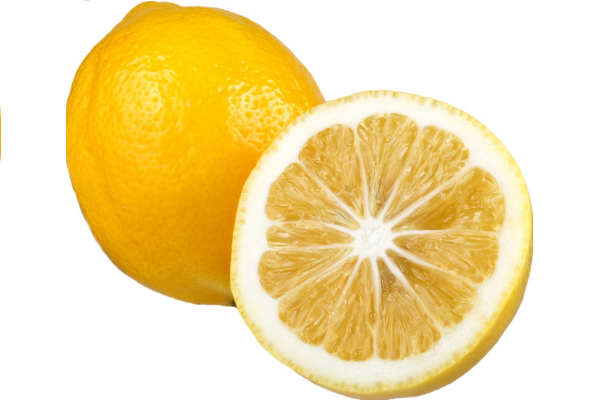
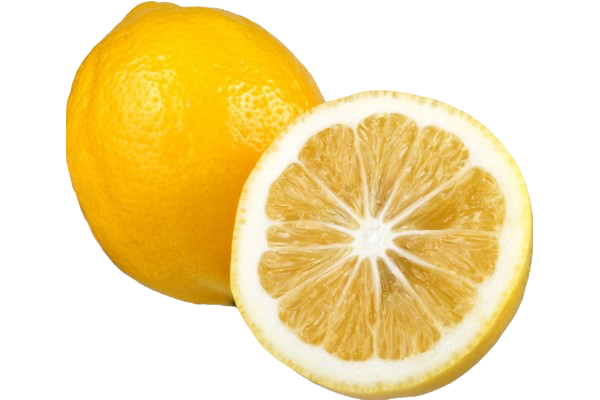
Add files via upload

diff --git a/portfolio/smoothies/index.html b/portfolio/smoothies/index.html
@@ -4,107 +4,149 @@
     <meta charset="UTF-8">
     <meta http-equiv="X-UA-Compatible" content="IE=edge">
     <meta name="viewport" content="width=device-width, initial-scale=1.0">
+    ‹title>Mary Smith | Portfolio Project | Smooth Smoothies</title›
+    ‹meta name="description" content="Dublin's finest smoothie store. Offering tasty alternatives to sugary and unhealthy snacks for busy, on-the-go, on-trend professionals">
+   
+	<!-- Preload large image -->
 
-    <title>Victor Gomes Alencar | Portfolio Project | Smooth Smoothies</title>
-    <meta name="description" content="Dublin's finest smoothie store. Offering tasty alternatives to sugary and unhealthy snacks for busy, on-the-go, on-trend professionals.">
-
-    <!-- Preload large image -->
     <link rel="preload" href="assets/img/smoothies-hero-image.jpg" as="image">
 
-    <!-- Stylesheets -->
+	<!-- Stylesheets -->
     <link rel="stylesheet" href="https://lunevedy.com/assets/2.0/css/lunevedy.min.css" />
     <link rel="stylesheet" href="assets/css/custom.css" />
 
-    <!-- Google Fonts -->
-    <link rel="preconnect" href="https://fonts.googleapis.com">
+	<!-- Google Fonts -->
+     <link rel="preconnect" href="https://fonts.googleapis.com">
     <link rel="preconnect" href="https://fonts.gstatic.com" crossorigin>
     <link href="https://fonts.googleapis.com/css2?family=Neucha&display=swap" rel="stylesheet">
 
+
+    
+
 </head>
+
 
 <body>
 
-    <!-- 'hero block' header starts here -->
-    <header class="theme-dark hero-bg text-center-desktop text-center-mobile desktop-min-height-90vh">
+    <!-- menu and 'hero block' header -->
+    
+<!-- header starts here -->
+<header class="theme-dark hero-bg text-center-desktop text-center-mobile desktop-min-height-90vh">
 
-        <div class="container-text reveal-slide-up-header">
-            <h1 class="text-shadow">Smooth Smoothies</h1>
-            <h2 class="text-shadow">Where flavour meets goodness</h2>
-        </div>
+    <div class="container-text reveal-slide-up-header">
+        <h1 class="text-shadow">Smooth Smoothies</h1>
+        <h2 class="text-shadow">Where flavour meets goodness</h2>
+    </div>
 
-        <div class="container-media">
-            <img src="assets/img/smoothies-hero-image.jpg" alt="Placeholder image">
-        </div>
+    
 
-        <div class="container-overlay"></div>
+    <div class="container-media">
+        <img src="assets/img/smoothies-hero-image.jpg" alt="Placeholder image">
+    </div>
 
-    </header>
-    <!-- 'hero block' header ends here -->
+    <div class="container-overlay"></div>
+
+</header>
+
 
     <!-- main content with sections -->
     <main>
 
         <!-- replace these empty sections with your own or delete them. -->
+        
+	<!-- section starts here -->
 
-        <!-- section starts here -->
-        <section class="theme-light section-selector-1 w-820px text-center-desktop text-center-mobile">
+    <section class="theme-light section-selector-1 w-820px text-center-desktop text-center-mobile">
 
-            <p class="bigger-desktop bigger-mobile">Our world-class smoothies are great at any time of the day and offer a tasty alternative to sugary and unhealthy snacks!</p>
+        
 
-        </section>
-        <!-- section ends here -->
+        <h2></h2>
+        <p class="bigger-desktop bigger-mobile">Our world-class smoothies are great at any time of the day and offer a tasty alternative to sugary and unhealthy snacks!</p>
 
-        <section class="theme-light cols-2-half section-selector-2">
+        
 
-            <div class="col-2 col-text">
-                <h2>Watermelon Wonder</h2>
-                <p>Watermelon is a delicious and refreshing fruit that's also good for you. It is high in vitamin C, vitamin A and many healthy plant compounds, but contains only 60 calories per smoothie. And because watermelon has a high water content, this smoothie is hydrating and helps you feel full.</p>
-            </div>
+    </section>
 
-            <div class="col-2 col-visual">
-                <figure>
-                    <img src="assets/img/watermelon.png" alt="Placeholder image">
-                </figure>
-            </div>
+	<!-- section ends here -->
 
-        </section>
 
-        <section class="theme-light cols-2-half section-selector-4">
+       
 
-            <div class="col-2 col-text">
-                <h2>Blueberry Surprise</h2>
-                <p>One of our top sellers. Blueberries are so tasty that many people consider them their favourite fruit. In fact, because they are low in calories and incredibly good for you. Blueberries are often labeled a superfood. Blueberries have the highest antioxidant capacity of all the popular fruits and vegetables.</p>
-            </div>
+    <section class="theme-light cols-2-half section-selector-2">
 
-            <div class="col-2 col-visual">
-                <figure>
-                    <img src="assets/img/blueberry.png" alt="Placeholder image">
-                </figure>
-            </div>
+        <div class="col-2 col-text">
+            <h2>Watermelon Wonder</h2>
+            <p>Watermelon is a delicious and refreshing fruit that's also good for you. It is high in vitamin C, vitamin A and many healthy plant compounds, but contains only 60 calories per smoothie. And because watermelon has a high water content, this smoothie is hydrating and helps you feel full.</p>
+        </div>
 
-        </section>
+        <div class="col-2 col-visual">
+            <figure>
+                <img src="assets/img/watermelon.png" alt ="Watermelon Wonder">
+            </figure>
+        </div>
 
-        <section class="theme-light section-selector-5 cols-2-half flex-row-reverse">
+    </section>
 
-            <div class="col-2 col-text">
-                <h2>Lemon Luxury</h2>
-                <p>Add zest to your day with our delicious Lemon Luxury smoothie. As a citrus fruit, lemons are high in vitamin C, which is a primary antioxidant that helps reduce your risk of cardiovascular disease and lowers blood pressure. Refreshing and energising - that's our Lemony Luxury smoothie!</p>
-            </div>
 
-            <div class="col-2 col-visual">
-                <figure>
-                    <img src="assets/img/lemon-removebg-preview.png" alt="Placeholder image">
-                </figure>
-            </div>
+     
 
-        </section>
+    <section class="theme-light cols-2-half section-selector-3 flex-row-reverse">
 
-        <section></section>
-        <section></section>
+        <div class="col-2 col-text">
+            <h2>Apple Delight</h2>
+            <p>Apples are an awesome source of fibre and vitamin C. They also contain polyphenols, which can have numerous health benefits. Apples have been linked to a lower risk of heart disease because they contain soluble fibre that can help lower blood cholesterol. Studies have also shown that eating apples reduces the risk of type 2 diabetes.</p>
+        </div>
+
+        <div class="col-2 col-visual">
+            <figure>
+                <img src="assets/img/apple.png" alt="Apple Delight">
+            </figure>
+        </div>
+
+    </section>
+
+
+    
+
+    <section class="theme-light cols-2-half flex-row-reverse section-selector-4">
+
+        <div class = "col-2 col-text">
+            <h2>Blueberry Surprise</h2>
+            <p>One of our top sellers. Blueberries are so tasty that many people consider them their favourite fruit. In fact, because they are low in calories and incredibly good for you. Blueberries are often labeled a superfood. Blueberries have the highest antioxidant capacity of all the popular fruits and vegetables.</p>
+        </div>
+
+        <div class="col-2 col-visual">
+            <figure>
+                <img src="assets/img/blueberry.png" alt="Blueberry Surprise">
+            </figure>
+        </div>
+
+    </section>
+
+
+        
+
+    <section class="theme-light cols-2-half section-selector-5 flex-row-reverse">
+
+        <div class="col-2 col-text">
+            <h2>Lemon Luxury</h2>
+            <p>Add zest to your day with our delicious Lemon Luxury smoothie. As a citrus fruit, lemons are high in vitamin C, which is a primary antioxidant that helps reduce your risk of cardiovascular disease and lowers blood pressure. Refreshing and energising - that's our Lemony Luxury smoothie!</p>
+        </div>
+
+        <div class="col-2 col-visual">
+            <figure>
+                <img src="assets/img/lemon.png" alt="Placeholder image">
+            </figure>
+        </div>
+
+    </section>
+
+
+        
 
     </main>
 
     <!-- footer -->
-
+   
 </body>
 </html>

diff --git a/portfolio/smoothies/assets/css/custom.css b/portfolio/smoothies/assets/css/custom.css
@@ -1,32 +1,33 @@
-
-/* Add your custom CSS here */
-
-.section-selector-1 p { color: var(--purple-800) }
+.section-selector-1 > p { color: var(--purple-800) }
 
 .section-selector-2 { background-color: var(--pink-200) }
-.section-selector-2 h2 { color: var(--red-700) }
+.section-selector-2 .col-text h2 { color: var(--red-700) }
+
+
+.section-selector-3 { background-color: var(--green-200) }
+.section-selector-3 .col-text h2 { color: var(--green-700) }
+
+
 
 .section-selector-4 { background-color: var(--purple-800) }
 .section-selector-4 h2 { color: var(--white-000) }
-.section-selector-4 .col-2.col-text p { color: var(--white-000) }
+.section-selector-4 .col-text p { color: var(--white-000) }
 
 .section-selector-5 { background-color: var(--yellow-200) }
-.section-selector-5 h2 { color: var(--yellow-600) }
+.section-selector-5 .col-text h2 { color: var(--yellow-600) }
 
-/* Hero block headings */
+body { font-family: 'Neucha', cursive }
+
 
 header h1 { font-size: var(--font-size-xxxl) }
 header h2 { font-size: var(--font-size-xxl) }
 
 header h1, header h2 { letter-spacing: -1px }
 
-/* Deckhead paragraph */
-
 .section-selector-1 p.bigger-desktop { font-size: var(--font-size-xl) }
-.section-selector-1 p.bigger-mobile { font-size: var(--font-size-lg) }
+.section-selector-1 p.bigger-mobile  { font-size: var(--font-size-lg) }
 
-/* Smoothie section headings and paragraphs */
-
+                        
 .cols-2-half .col-2 h2 {
     font-size: var(--font-size-xxl);
 }
@@ -37,3 +38,7 @@ header h1, header h2 { letter-spacing: -1px }
 
 .cols-2-half .col-2 h2,
 .cols-2-half .col-2 p { letter-spacing: 1px }
+
+
+
+
